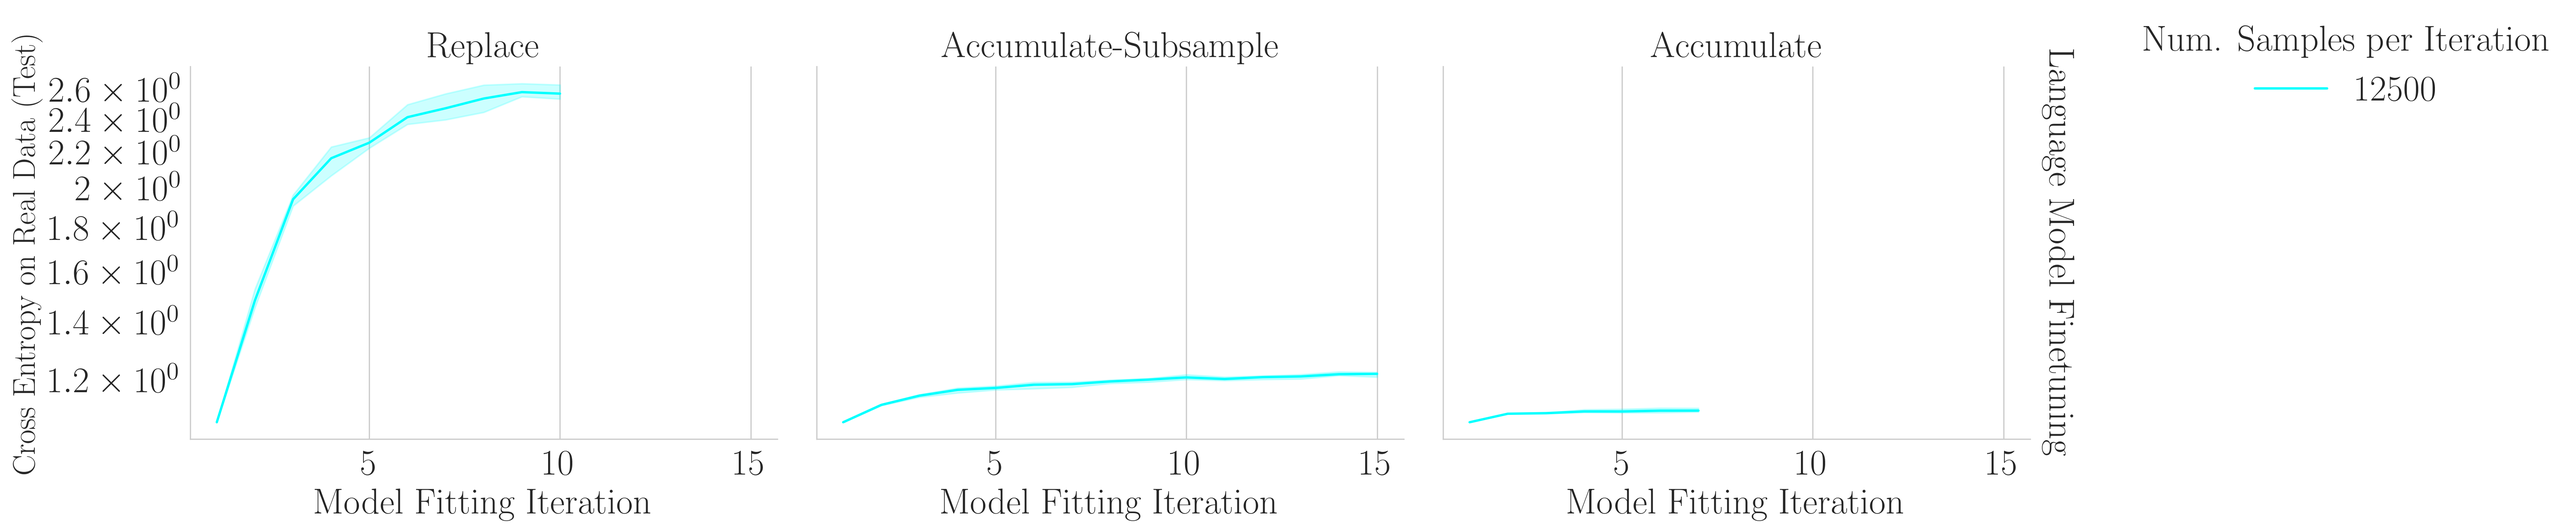
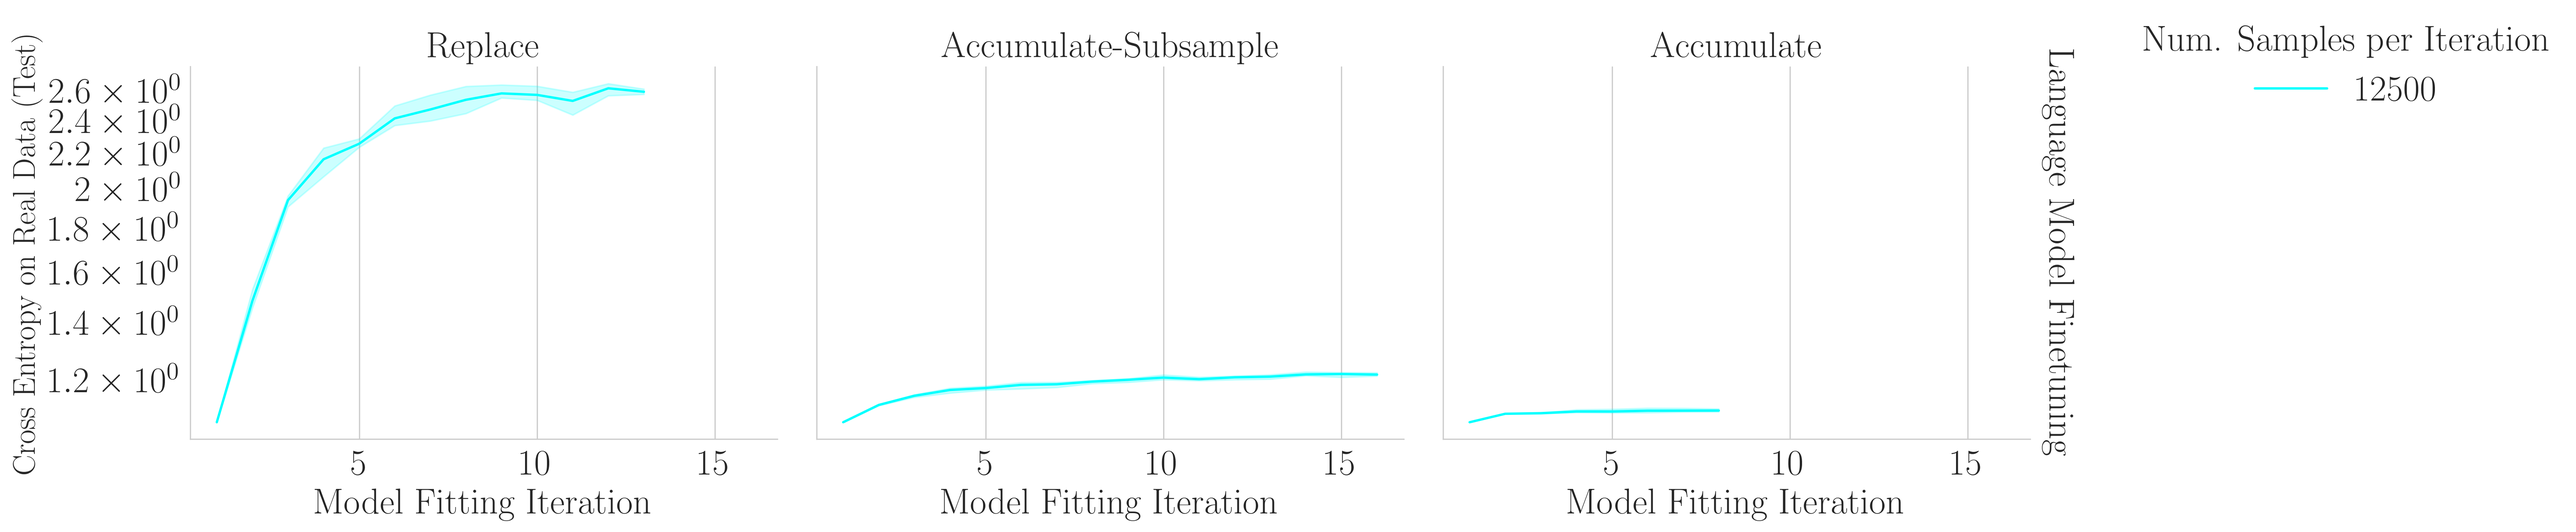
Preparing to pull Joshua's notebook.

diff --git a/notebooks/08_sft_lm_accumulate_subsample/08_sft_lm_accumulate_subsample.py b/notebooks/08_sft_lm_accumulate_subsample/08_sft_lm_accumulate_subsample.py
@@ -27,6 +27,7 @@ wandb_sweep_ids = [
     "ds1ukfox",  # HelpSteer2   Gemma2-2B   Paradigm=Accumulate             Iteration7
     "vwu954ge",  # HelpSteer2   Gemma2-2B   Paradigm=Accumulate             Iteration8
     "7w4kg2jm",  # HelpSteer2   Gemma2-2B   Paradigm=Accumulate             Iteration9
+    "8rfj4fko",  # HelpSteer2   Gemma2-2B   Paradigm=Accumulate             Iteration10
     "y4oue58c",  # HelpSteer2   Gemma2-2B   Paradigm=Accumulate-Subsample   Iteration1 (Part 1)
     "3cn97hta",  # HelpSteer2   Gemma2-2B   Paradigm=Accumulate-Subsample   Iteration1 (Part 2)
     "4ec1abqn",  # HelpSteer2   Gemma2-2B   Paradigm=Accumulate-Subsample   Iteration2
@@ -44,6 +45,8 @@ wandb_sweep_ids = [
     "u55azpqc",  # HelpSteer2   Gemma2-2B   Paradigm=Accumulate-Subsample   Iteration14
     "qe7msde5",  # HelpSteer2   Gemma2-2B   Paradigm=Accumulate-Subsample   Iteration15
     "utz5iwds",  # HelpSteer2   Gemma2-2B   Paradigm=Accumulate-Subsample   Iteration16
+    "sapn8lgb",  # HelpSteer2   Gemma2-2B   Paradigm=Accumulate-Subsample   Iteration17
+    "izionzhj",  # HelpSteer2   Gemma2-2B   Paradigm=Accumulate-Subsample   Iteration18
     "n2ren5e9",  # HelpSteer2   Gemma2-2B   Paradigm=Replace                Iteration1
     "5i6bj5re",  # HelpSteer2   Gemma2-2B   Paradigm=Replace                Iteration2
     "n8t9j5ee",  # HelpSteer2   Gemma2-2B   Paradigm=Replace                Iteration3
@@ -57,6 +60,8 @@ wandb_sweep_ids = [
     "npee6k44",  # HelpSteer2   Gemma2-2B   Paradigm=Replace                Iteration11
     "8kqsqkug",  # HelpSteer2   Gemma2-2B   Paradigm=Replace                Iteration12
     "mgjv0w71",  # HelpSteer2   Gemma2-2B   Paradigm=Replace                Iteration13
+    "2ko06q37",  # HelpSteer2   Gemma2-2B   Paradigm=Replace                Iteration14
+    "q3dogobf",  # HelpSteer2   Gemma2-2B   Paradigm=Replace                Iteration15
 ]
 
 
